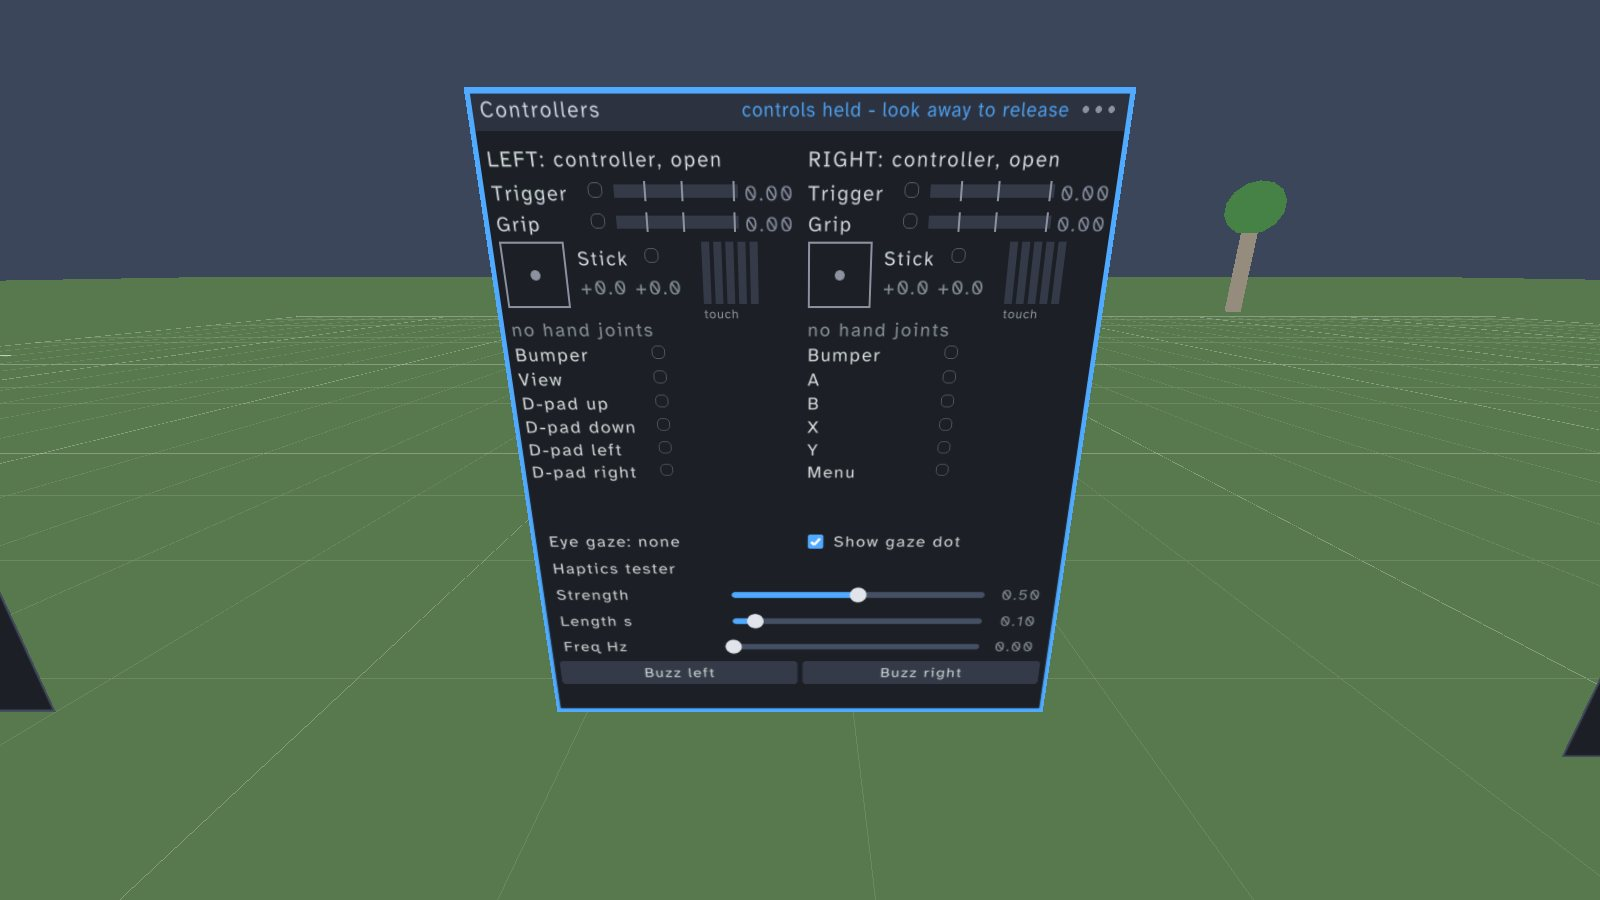
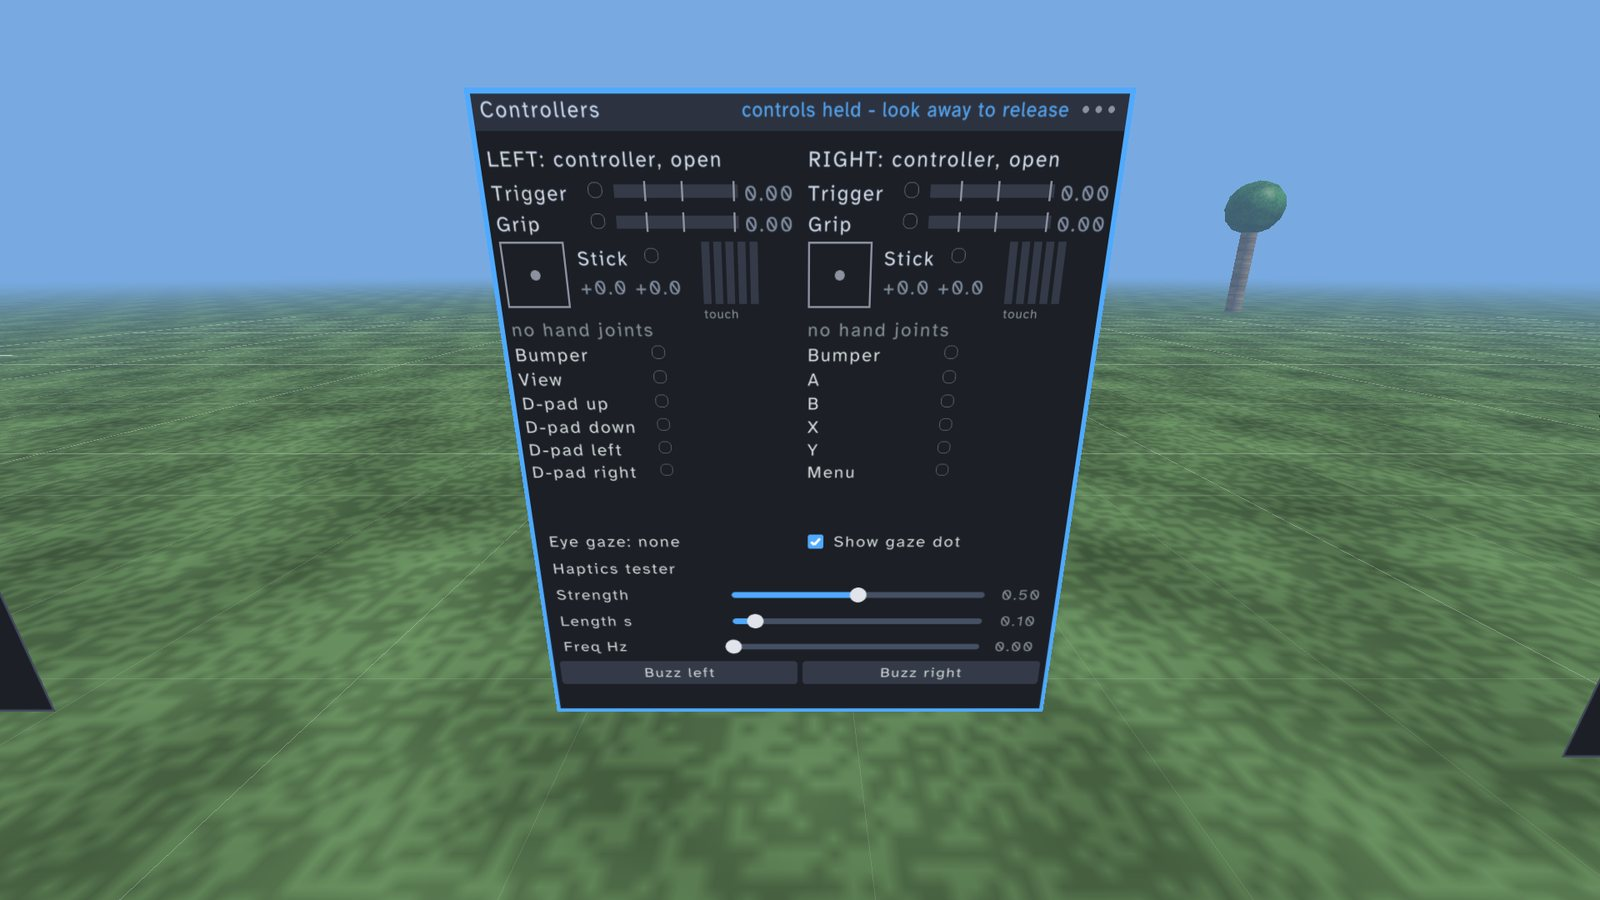
README screenshots retaken with the new look
All five retaken with the lighting, textures and fog (the HUD off while
taking them), plus two new ones: the Particles bench and the Sound
station's stream.

Claude-Session: https://claude.ai/code/session_01JrDmwYtYyu9GMFBojBtouh

diff --git a/README.md b/README.md
@@ -26,12 +26,13 @@ while (sfxr_frame_begin()) {                 // one loop iteration = one headset
 **Status:** runs on a real Steam Frame (SteamOS, SteamVR 2.17.10), at the full
 1728×1728 per eye at 72 Hz, using the Frame's own controllers.
 
-![The toolbox where you start: station signs, the Toolbox panel, the workbench and the controls](docs/images/toolbox.jpg)
+![The toolbox where you start: the workbench, the controls diagram behind it, the Toolbox panel and the station signs](docs/images/toolbox.jpg)
 
 | | |
 |---|---|
 | ![The Controllers panel: every input, live](docs/images/controllers-panel.jpg) | ![The Voice commands station: one set of orders bound four ways](docs/images/voice-commands.jpg) |
-| ![The physgun holding a brick on its beam, beside the Weights table](docs/images/physgun.jpg) | ![Daddy Bug Smasher: the Bugmaster on his tower, bugs coming, the hammer in hand](docs/images/daddy-bug-smasher.jpg) |
+| ![The physgun holding a brick on its beam, beside the Weights table](docs/images/physgun.jpg) | ![Daddy Bug Smasher: the Bugmaster taunting from his tower, bugs coming, the hammer in hand](docs/images/daddy-bug-smasher.jpg) |
+| ![The Particles bench: chimney smoke leaning in the wind, a steam jet, the spark grinder](docs/images/particles.jpg) | ![The Sound station's stream: rippling water between river stones](docs/images/stream.jpg) |
 
 *(Drawn by the test harness from the player's head: `SFXT_SNAPSHOT_SIZE=1600x900`; see
 [docs/TESTING.md](docs/TESTING.md). In the headset, the Screenshot hand-menu item saves
